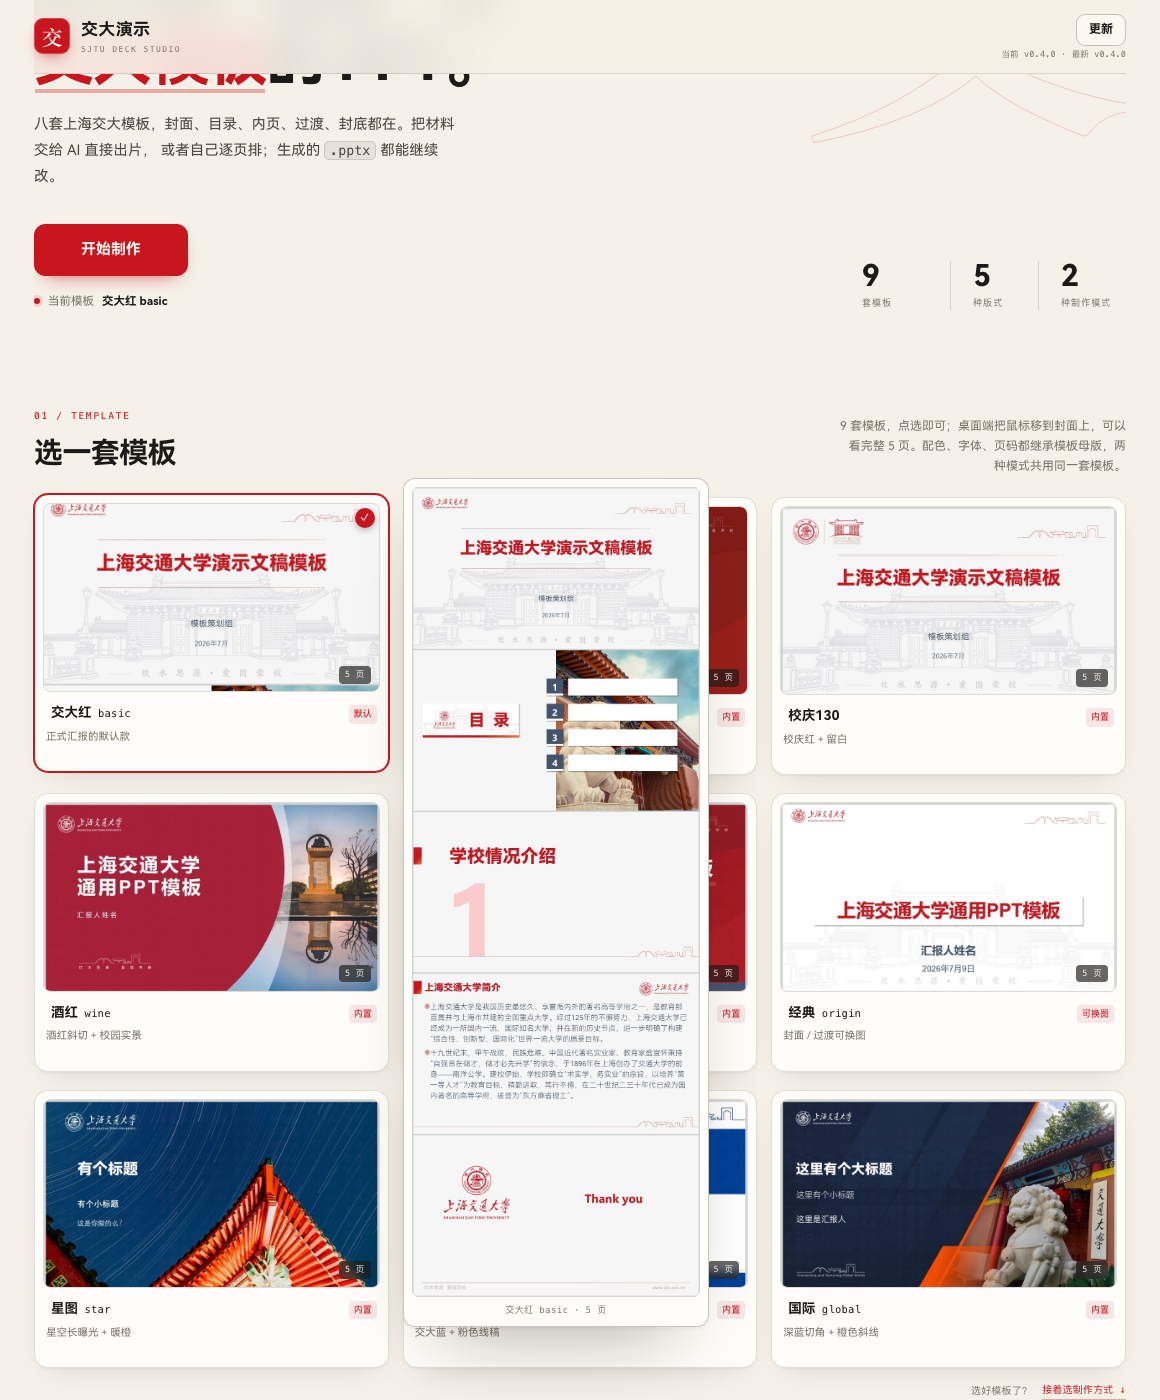
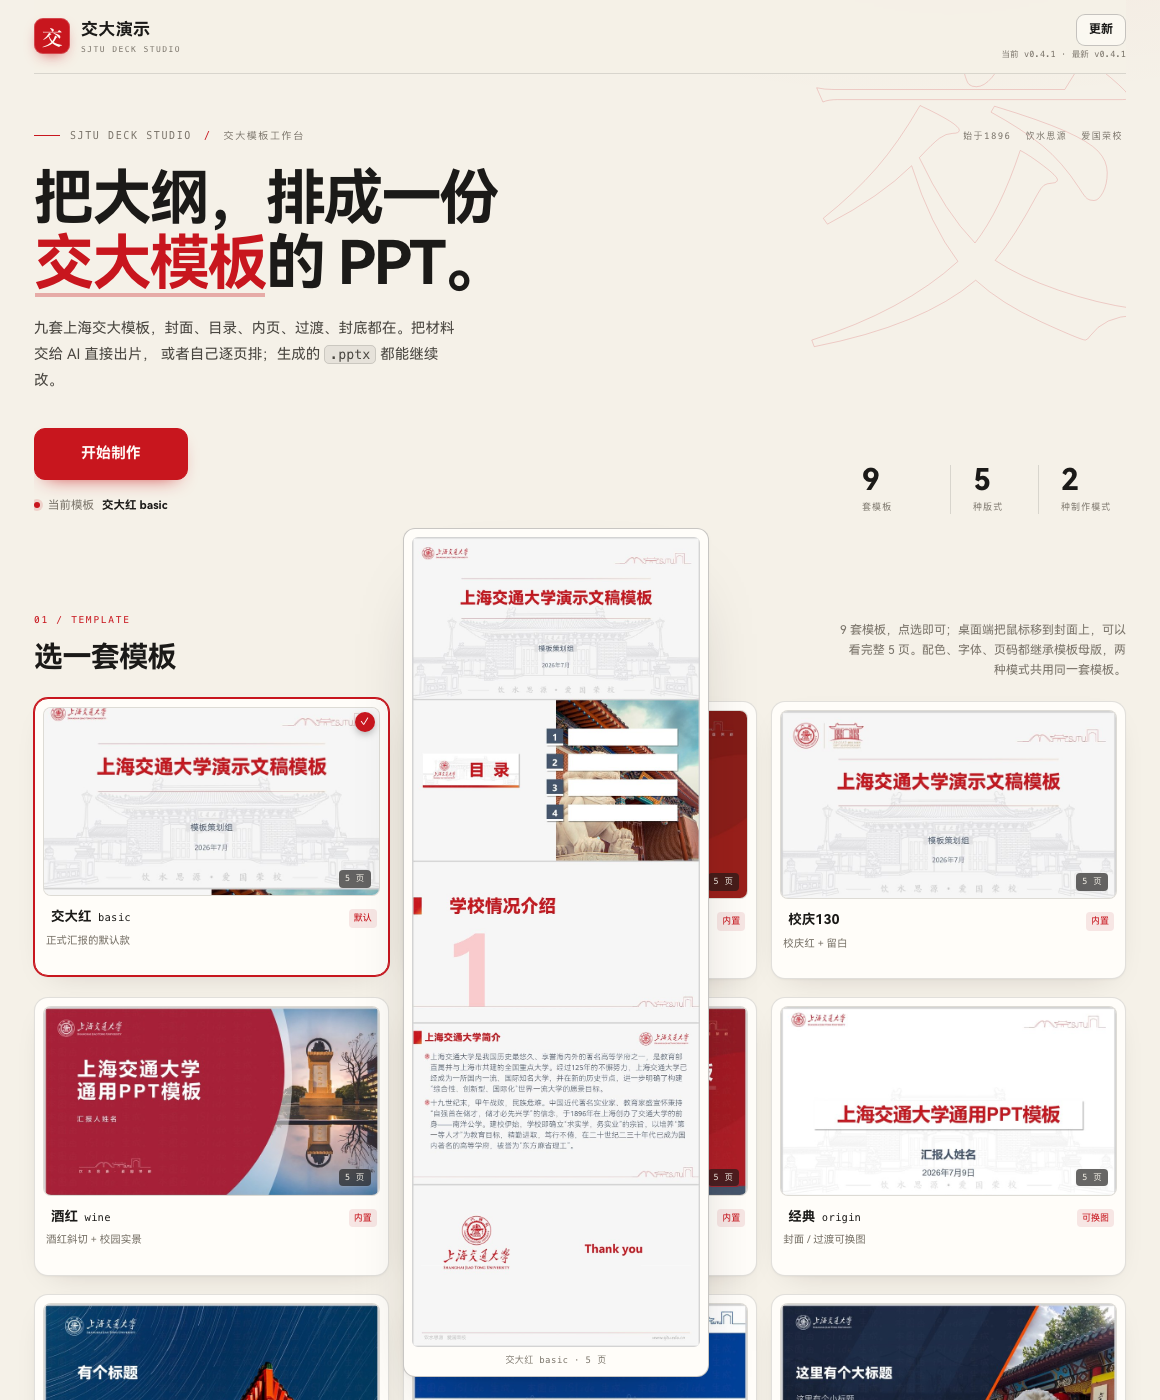
fix: make update check use tags and jsDelivr

diff --git a/lib/update.js b/lib/update.js
@@ -26,13 +26,17 @@ function versionParts(value) {
     })
 }
 
-function isNewer(latest, current) {
-  const a = versionParts(latest)
-  const b = versionParts(current)
+function compareVersions(a, b) {
+  const left = versionParts(a)
+  const right = versionParts(b)
   for (let i = 0; i < 3; i += 1) {
-    if (a[i] !== b[i]) return a[i] > b[i]
+    if (left[i] !== right[i]) return left[i] - right[i]
   }
-  return false
+  return 0
+}
+
+function isNewer(latest, current) {
+  return compareVersions(latest, current) > 0
 }
 
 async function readJson(url, api = false) {
@@ -58,18 +62,33 @@ export async function checkUpdate(force = false) {
     return cache.data
   }
 
-  // github.com 的 raw 路径通常比 raw.githubusercontent.com 稳，也不吃 API 限额；
-  // API 作为第二兜底，raw.githubusercontent 最后。
+  // 先读 tags（新版本 tag 立即出现，且不受 raw CDN 缓存影响）；再用 jsDelivr
+  // 读 main 的 package.json；最后才回退 GitHub raw / contents。
   const sources = [
-    { url: `https://github.com/${REPO}/raw/main/package.json?t=${now}`, api: false },
-    { url: `https://api.github.com/repos/${REPO}/contents/package.json?ref=main&t=${now}`, api: true },
-    { url: `https://raw.githubusercontent.com/${REPO}/main/package.json?t=${now}`, api: false },
+    { kind: 'tags', url: `https://api.github.com/repos/${REPO}/tags?per_page=20&t=${now}` },
+    { kind: 'pkg', url: `https://cdn.jsdelivr.net/gh/${REPO}@main/package.json?t=${now}`, api: false },
+    { kind: 'pkg', url: `https://github.com/${REPO}/raw/main/package.json?t=${now}`, api: false },
+    { kind: 'pkg', url: `https://api.github.com/repos/${REPO}/contents/package.json?ref=main&t=${now}`, api: true },
+    { kind: 'pkg', url: `https://raw.githubusercontent.com/${REPO}/main/package.json?t=${now}`, api: false },
   ]
 
   let latest = ''
   let error = ''
   for (const source of sources) {
     try {
+      if (source.kind === 'tags') {
+        const tags = await readJson(source.url, false)
+        const versions = (Array.isArray(tags) ? tags : [])
+          .map((tag) => String(tag?.name || '').replace(/^v/i, ''))
+          .filter((version) => /^\d+\.\d+\.\d+/.test(version))
+          .sort(compareVersions)
+        if (versions.length) {
+          latest = versions[versions.length - 1]
+          break
+        }
+        error = 'tags 里没有版本号'
+        continue
+      }
       const pkg = await readJson(source.url, source.api)
       if (pkg && typeof pkg.version === 'string' && /^\d+\.\d+\.\d+/.test(pkg.version)) {
         latest = pkg.version

diff --git a/lib/index.js b/lib/index.js
@@ -1,4 +1,4 @@
-// 交大演示 · DeepSeek Harness 插件：Host 半边（0.4.0 2026新版）
+// 交大演示 · DeepSeek Harness 插件：Host 半边（0.4.1 更新源修正）
 // 1. 把随附的 sjtu-ppt skill 注册进 ctx.skills，模型和 /sjtu-ppt 命令都能用
 //    再给模型一个生成工具 sjtu_ppt_generate（lib/tool.js）
 // 2. /sjtu-ppt/                    侧栏页面（web/）
